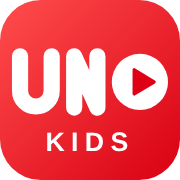
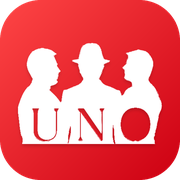
Logotip UNO asl belgisi asosida: uchta haykal va UNO yozuvi qizil fonda
Asl logotipdan haykallar va UNO yozuvi ajratib olindi (assets/make_logo.py),
qizil gradient fonda oq rangda joylashtirildi. 180/192/512/1024 px belgilar.

Claude-Session: https://claude.ai/code/session_01YRN6BYSj1uMmr4JGCEUbTF

diff --git a/index.html b/index.html
@@ -9,7 +9,7 @@
   <meta name="description" content="UNO Kids — bolalar uchun xavfsiz video ilova. Faqat ota-ona tanlagan YouTube videolari.">
   <title>UNO Kids</title>
   <link rel="manifest" href="manifest.json">
-  <link rel="icon" href="icon.svg" type="image/svg+xml">
+  <link rel="icon" href="icon-192.png" type="image/png">
   <link rel="apple-touch-icon" href="icon-180.png">
   <link rel="stylesheet" href="styles.css">
 </head>
@@ -18,7 +18,7 @@
   <!-- ===== Birinchi ishga tushirish: PIN yaratish ===== -->
   <section id="screen-setup" class="screen center-screen" hidden>
     <div class="panel center-panel">
-      <img src="icon.svg" alt="" class="setup-logo">
+      <img src="icon-512.png" alt="" class="setup-logo">
       <h2>UNO Kids'ga xush kelibsiz!</h2>
       <p class="muted">Avval ota-ona uchun 4 xonali PIN kod yarating. Bu kod bilan faqat siz videolarni qo'sha yoki o'chira olasiz.</p>
       <input id="setup-pin" class="pin-input" type="password" inputmode="numeric" maxlength="4" placeholder="••••" autocomplete="off">
@@ -32,7 +32,7 @@
   <div id="app" hidden>
     <header class="topbar" id="topbar">
       <a class="brand" href="#/home" aria-label="UNO Kids bosh sahifa">
-        <img src="icon.svg" alt="">
+        <img src="icon-192.png" alt="">
         <span>UNO <b>Kids</b></span>
       </a>
       <div class="top-actions">

diff --git a/sw.js b/sw.js
@@ -1,6 +1,6 @@
 // UNO Kids service worker: ilova qobig'ini keshlaydi (videolar internet orqali o'ynaydi).
-const CACHE = 'uno-kids-v3';
-const SHELL = ['./', 'index.html', 'styles.css', 'app.js', 'manifest.json', 'icon.svg', 'icon-180.png', 'icon-192.png', 'icon-512.png'];
+const CACHE = 'uno-kids-v4';
+const SHELL = ['./', 'index.html', 'styles.css', 'app.js', 'manifest.json', 'icon-180.png', 'icon-192.png', 'icon-512.png'];
 
 self.addEventListener('install', (e) => {
   e.waitUntil(caches.open(CACHE).then((c) => c.addAll(SHELL)).then(() => self.skipWaiting()));

diff --git a/styles.css b/styles.css
@@ -75,7 +75,7 @@ textarea { resize: vertical; }
 .panel h3 { margin: 0 0 8px; font-size: 1.05rem; }
 .center-screen { min-height: 100vh; padding: 16px; }
 .center-panel { max-width: 400px; margin: 8vh auto 0; text-align: center; }
-.setup-logo { width: 72px; height: 72px; margin: 0 auto 8px; }
+.setup-logo { width: 96px; height: 96px; margin: 0 auto 8px; border-radius: 22px; }
 .big-emoji { font-size: 4rem; }
 
 /* ===== Yuqori panel ===== */

diff --git a/assets/make_logo.py b/assets/make_logo.py
@@ -1,0 +1,77 @@
+"""UNO asl logotipidan uchta haykal va UNO yozuvini ajratib, qizil ilova belgisini yasaydi.
+Ishlatish: python3 assets/make_logo.py  (Pillow va numpy kerak)"""
+from PIL import Image, ImageDraw, ImageFilter
+import numpy as np, os
+
+HERE = os.path.dirname(os.path.abspath(__file__))
+ROOT = os.path.dirname(HERE)
+CUT_Y = 627  # shu chiziqdan pasti (samolyot) olinmaydi
+
+im = Image.open(os.path.join(HERE, 'uno-original.png')).convert('RGBA')
+a = np.array(im).astype(float)
+alpha = a[..., 3:4] / 255
+rgb = a[..., :3] * alpha + 255 * (1 - alpha)
+sat = rgb.max(axis=2) - rgb.min(axis=2)
+dark = 255 - rgb.mean(axis=2)
+score = np.maximum(sat * 1.2, dark)
+
+h, w = score.shape
+yy, xx = np.mgrid[0:h, 0:w]
+inside = ((xx - 540) ** 2 + (yy - 540) ** 2 < 245 ** 2) & (yy < CUT_Y)
+soft = np.clip((score - 20) / 18, 0, 1) * inside
+
+mask = Image.fromarray((soft * 255).astype('uint8'))
+# Faqat asosiy (eng katta) bo'lakni qoldiramiz: mayda nuqtalar tozalanadi
+binm = mask.point(lambda v: 255 if v > 140 else 0)
+ys, xs = np.nonzero(np.array(binm))
+seed = (int(np.median(xs)), int(np.percentile(ys, 70)))
+while binm.getpixel(seed) != 255:
+    seed = (seed[0], seed[1] + 1)
+ImageDraw.floodfill(binm, seed, 128)
+keep = np.array(binm) == 128
+keep_img = Image.fromarray((keep * 255).astype('uint8')).filter(ImageFilter.MaxFilter(3))
+keep_arr = np.array(keep_img) > 0
+# Ichki och-oltin joylar (yaltirash) ham to'liq oq bo'lsin: past chegara bilan tana, chetidan 2px ichkarida
+mask_arr = np.array(mask).astype(float)
+body = Image.fromarray(((score > 6) & inside).astype('uint8') * 255).filter(ImageFilter.MinFilter(5))
+mask_arr = np.maximum(mask_arr, np.array(body).astype(float)) * keep_arr
+mask = Image.fromarray(mask_arr.astype('uint8'))
+bbox = mask.point(lambda v: 255 if v > 128 else 0).getbbox()
+mask = mask.crop(bbox)
+mask.save(os.path.join(HERE, 'uno-figures-mask.png'))
+
+def red_bg(size):
+    s = size
+    g = np.zeros((s, s, 4), dtype=np.uint8)
+    t = (np.add.outer(np.arange(s), np.arange(s)) / (2 * s - 2))[..., None]
+    c1, c2 = np.array([255, 70, 70]), np.array([205, 0, 18])
+    g[..., :3] = (c1 * (1 - t) + c2 * t).astype(np.uint8)
+    g[..., 3] = 255
+    bg = Image.fromarray(g, 'RGBA')
+    m = Image.new('L', (s, s), 0)
+    ImageDraw.Draw(m).rounded_rectangle([0, 0, s - 1, s - 1], radius=int(s * 0.226), fill=255)
+    bg.putalpha(m)
+    return bg
+
+def make_icon(size, out):
+    big = size * 4  # silliq chet uchun katta o'lchamda chizib, keyin kichraytiramiz
+    bg = red_bg(big)
+    mw, mh = mask.size
+    scale = min(big * 0.80 / mw, big * 0.74 / mh)
+    fm = mask.resize((int(mw * scale), int(mh * scale)), Image.LANCZOS)
+    x = (big - fm.width) // 2
+    y = (big - fm.height) // 2 + int(big * 0.02)
+    # yengil soya
+    shadow = Image.new('RGBA', (big, big), (0, 0, 0, 0))
+    sh = Image.new('RGBA', fm.size, (90, 0, 0, 110)); sh.putalpha(fm.point(lambda v: v * 110 // 255))
+    shadow.paste(sh, (x, y + big // 80), sh)
+    shadow = shadow.filter(ImageFilter.GaussianBlur(big / 120))
+    bg = Image.alpha_composite(bg, shadow)
+    white = Image.new('RGBA', fm.size, (255, 255, 255, 255)); white.putalpha(fm)
+    bg.alpha_composite(white, (x, y))
+    bg.resize((size, size), Image.LANCZOS).save(out)
+
+for s in (180, 192, 512, 1024):
+    make_icon(s, os.path.join(ROOT, f'icon-{s}.png'))
+
+print('tayyor', mask.size)
